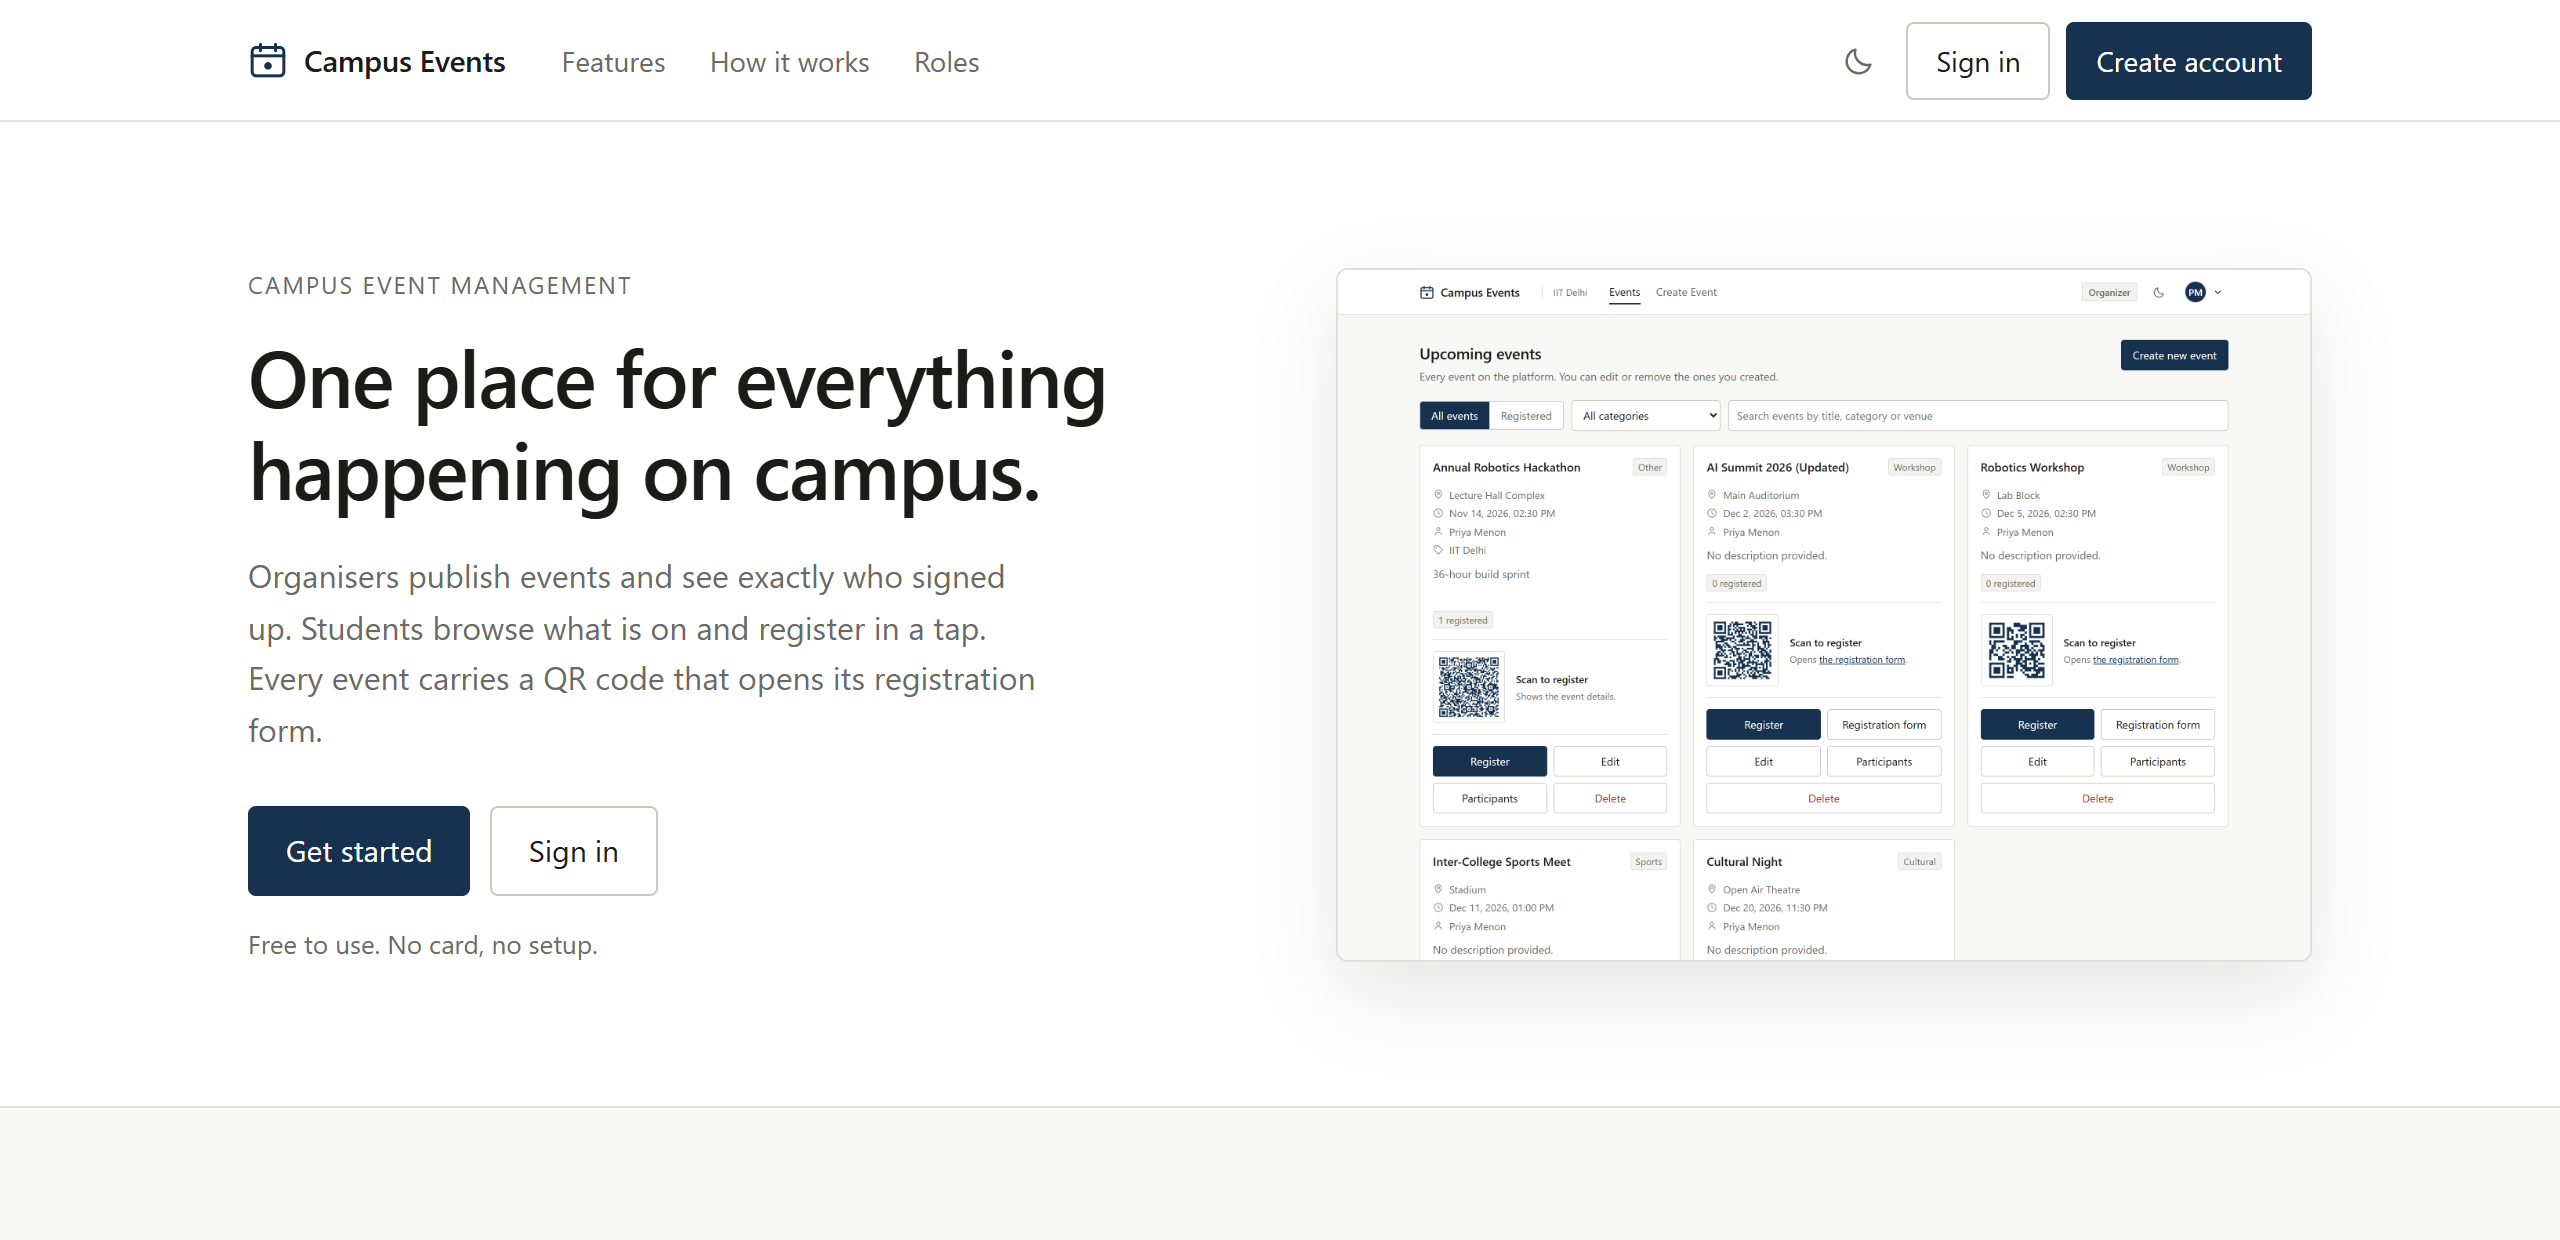
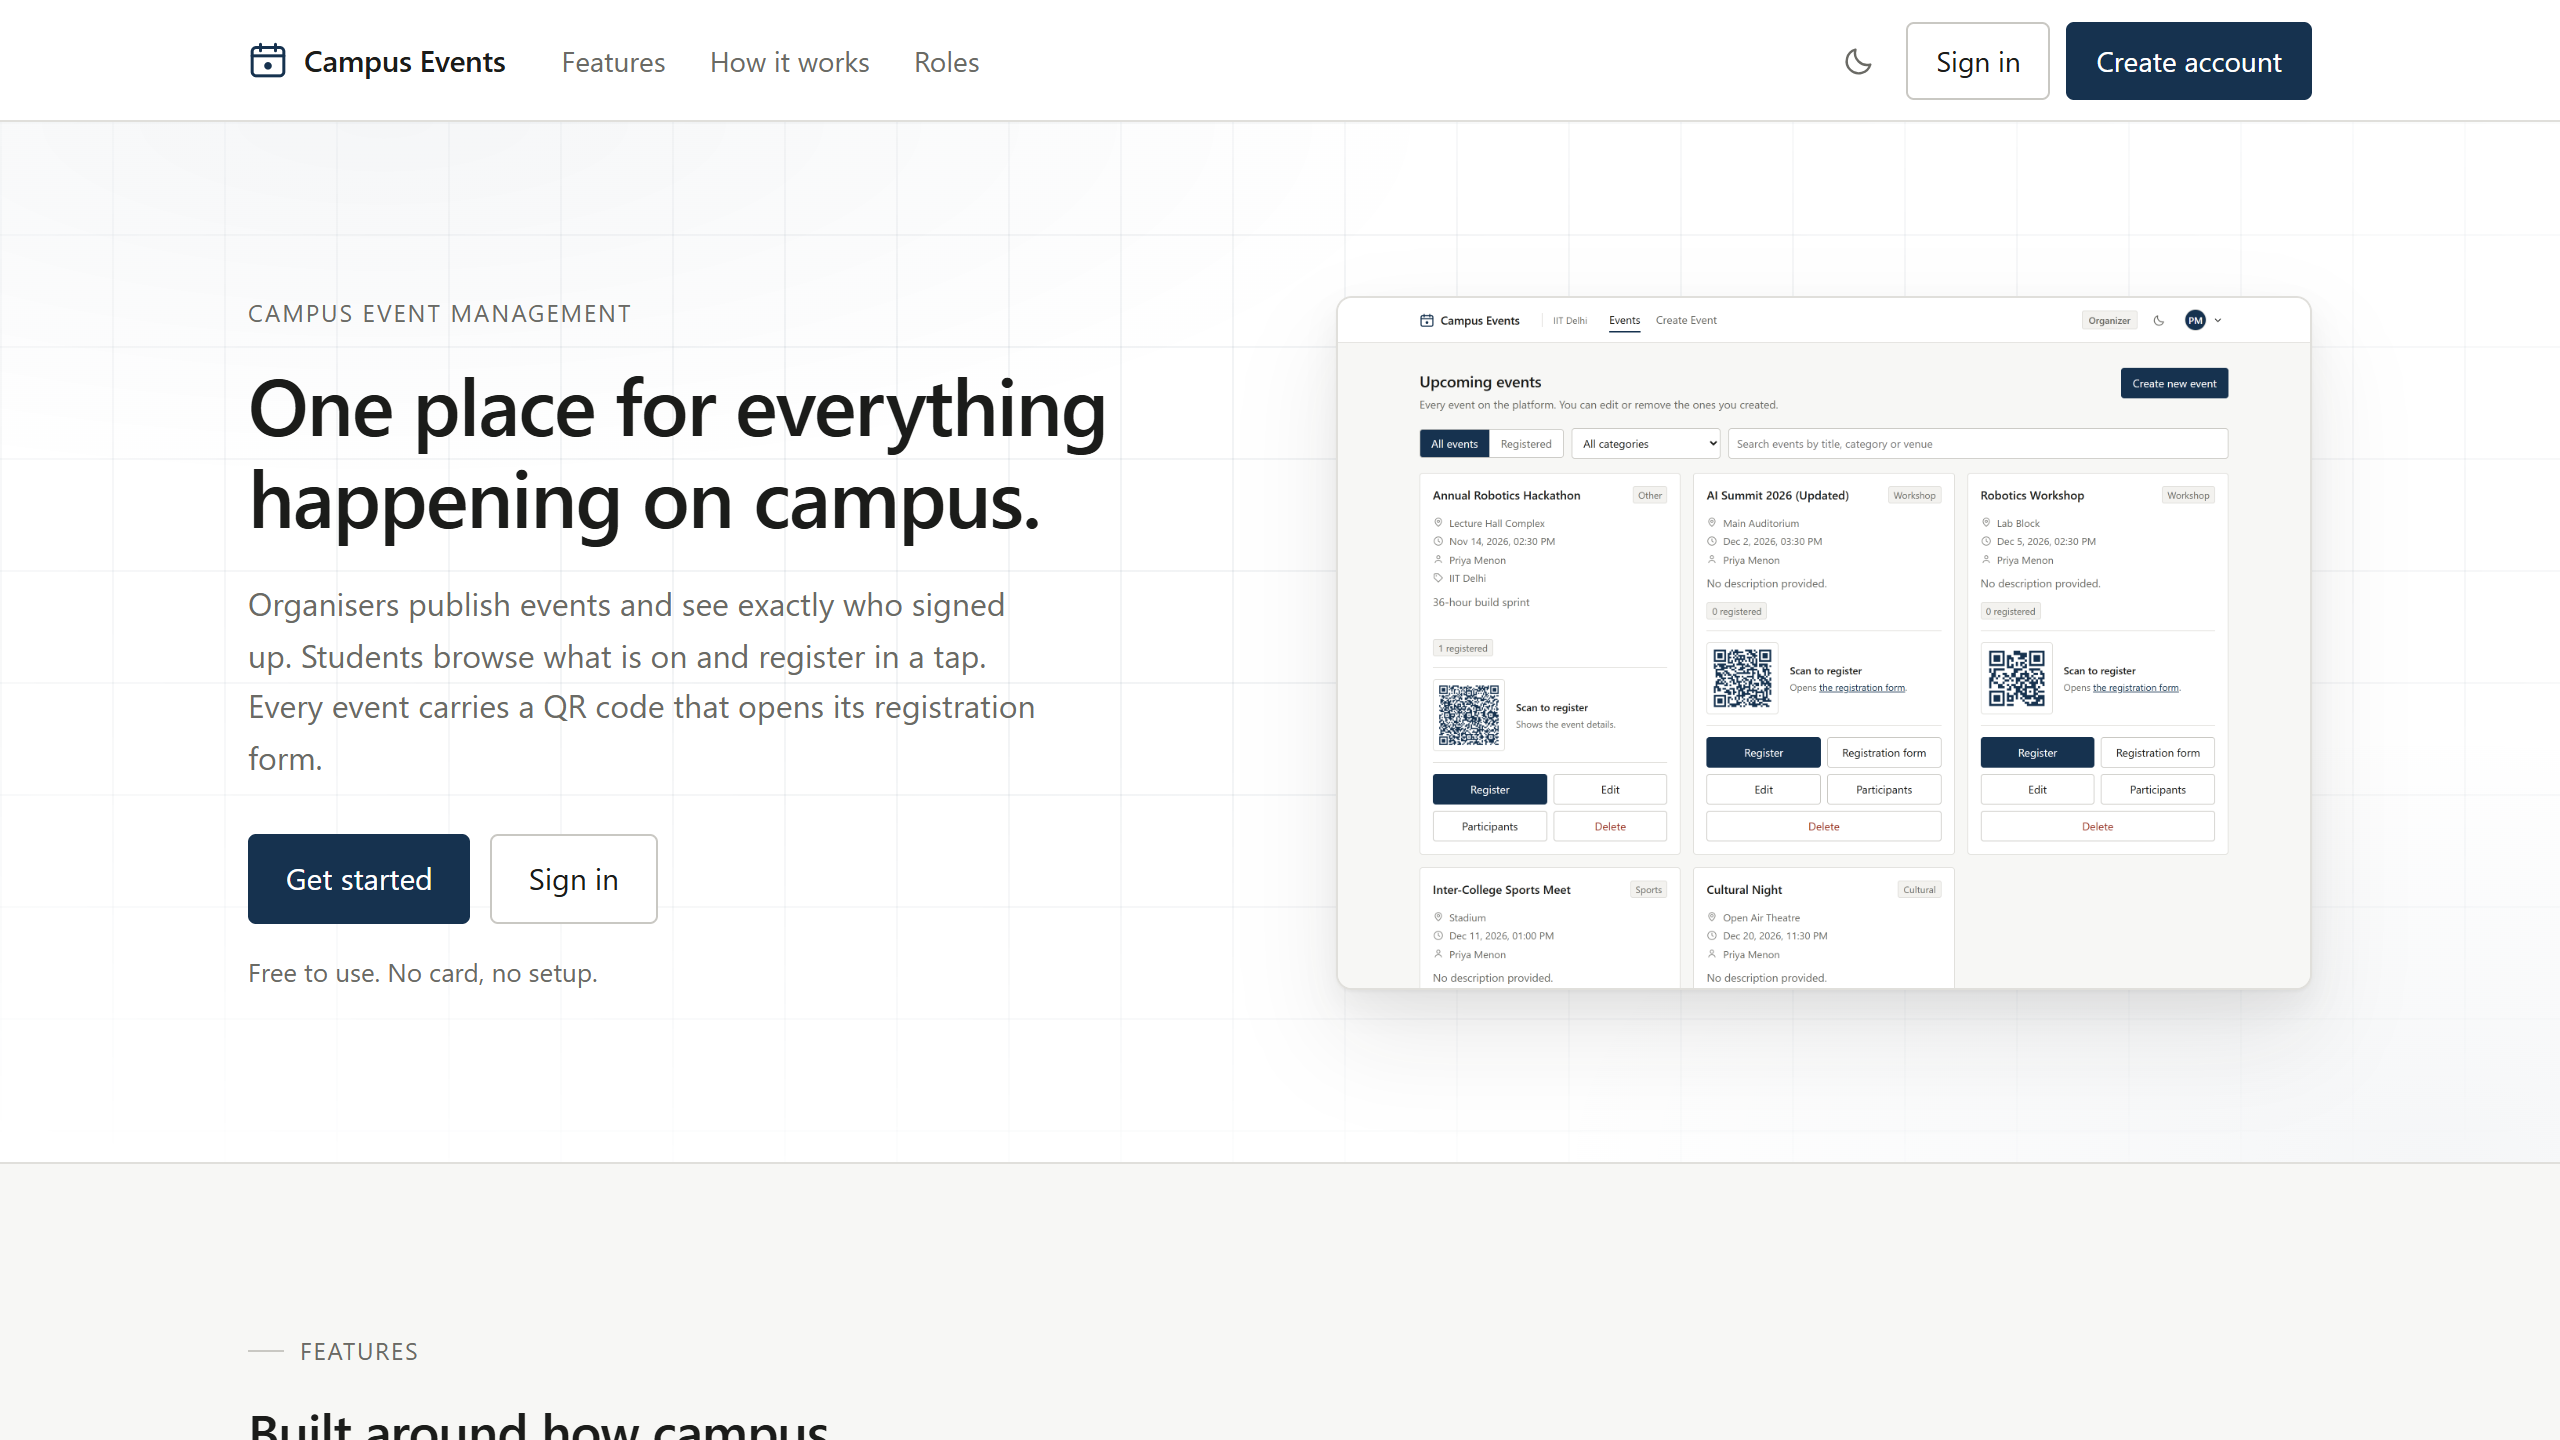
Give the landing page more visual depth

diff --git a/web/index.html b/web/index.html
@@ -54,10 +54,11 @@
         <p class="lp-note">Free to use. No card, no setup.</p>
       </div>
 
-      <div class="lp-shot">
-        <img src="assets/preview.png"
+      <div class="lp-shot reveal">
+        <img class="shot-light" src="assets/preview.png"
              alt="The event list, showing upcoming events with their QR codes"
              loading="lazy" />
+        <img class="shot-dark" src="assets/preview-dark.png" alt="" loading="lazy" />
       </div>
     </div>
   </section>
@@ -65,10 +66,11 @@
   <!-- ---------------- features ---------------- -->
   <section id="features" class="lp-section">
     <div class="lp-wrap">
+      <p class="lp-kicker">Features</p>
       <h2 class="lp-h2">Built around how campus events actually run</h2>
 
       <div class="lp-grid-3">
-        <article class="lp-card">
+        <article class="lp-card reveal">
           <div class="lp-icon">
             <svg viewBox="0 0 24 24" fill="none" stroke="currentColor" stroke-width="1.6" stroke-linecap="round" stroke-linejoin="round">
               <rect x="3" y="5" width="18" height="16" rx="2" /><path d="M3 10h18M8 3v4M16 3v4" />
@@ -81,7 +83,7 @@
           </p>
         </article>
 
-        <article class="lp-card">
+        <article class="lp-card reveal">
           <div class="lp-icon">
             <svg viewBox="0 0 24 24" fill="none" stroke="currentColor" stroke-width="1.6" stroke-linecap="round" stroke-linejoin="round">
               <rect x="3" y="3" width="7" height="7" rx="1" /><rect x="14" y="3" width="7" height="7" rx="1" />
@@ -95,7 +97,7 @@
           </p>
         </article>
 
-        <article class="lp-card">
+        <article class="lp-card reveal">
           <div class="lp-icon">
             <svg viewBox="0 0 24 24" fill="none" stroke="currentColor" stroke-width="1.6" stroke-linecap="round" stroke-linejoin="round">
               <path d="M16 20v-2a3 3 0 0 0-3-3H6a3 3 0 0 0-3 3v2" /><circle cx="9.5" cy="8" r="3.2" />
@@ -109,7 +111,7 @@
           </p>
         </article>
 
-        <article class="lp-card">
+        <article class="lp-card reveal">
           <div class="lp-icon">
             <svg viewBox="0 0 24 24" fill="none" stroke="currentColor" stroke-width="1.6" stroke-linecap="round" stroke-linejoin="round">
               <circle cx="11" cy="11" r="7" /><path d="M20 20l-3.5-3.5" />
@@ -122,7 +124,7 @@
           </p>
         </article>
 
-        <article class="lp-card">
+        <article class="lp-card reveal">
           <div class="lp-icon">
             <svg viewBox="0 0 24 24" fill="none" stroke="currentColor" stroke-width="1.6" stroke-linecap="round" stroke-linejoin="round">
               <rect x="6" y="2" width="12" height="20" rx="2.5" /><path d="M11 18.5h2" />
@@ -135,7 +137,7 @@
           </p>
         </article>
 
-        <article class="lp-card">
+        <article class="lp-card reveal">
           <div class="lp-icon">
             <svg viewBox="0 0 24 24" fill="none" stroke="currentColor" stroke-width="1.6" stroke-linecap="round" stroke-linejoin="round">
               <path d="M12 3l7.5 3.3v5c0 4.5-3.1 8.3-7.5 9.7-4.4-1.4-7.5-5.2-7.5-9.7v-5z" />
@@ -155,10 +157,11 @@
   <!-- ---------------- how it works ---------------- -->
   <section id="how" class="lp-section lp-alt">
     <div class="lp-wrap">
+      <p class="lp-kicker">Getting started</p>
       <h2 class="lp-h2">How it works</h2>
 
       <ol class="lp-steps">
-        <li>
+        <li class="reveal">
           <span class="lp-step-n">1</span>
           <div>
             <h3>Create an account</h3>
@@ -168,7 +171,7 @@
             </p>
           </div>
         </li>
-        <li>
+        <li class="reveal">
           <span class="lp-step-n">2</span>
           <div>
             <h3>Publish or browse</h3>
@@ -178,7 +181,7 @@
             </p>
           </div>
         </li>
-        <li>
+        <li class="reveal">
           <span class="lp-step-n">3</span>
           <div>
             <h3>Register, or scan</h3>
@@ -195,13 +198,14 @@
   <!-- ---------------- roles ---------------- -->
   <section id="roles" class="lp-section">
     <div class="lp-wrap">
+      <p class="lp-kicker">Permissions</p>
       <h2 class="lp-h2">Two roles, clearly separated</h2>
       <p class="lp-sub">
         Every rule below is checked on the server. Calling the API directly does not
         get around them.
       </p>
 
-      <div class="table-wrap">
+      <div class="table-wrap reveal">
         <table class="lp-table">
           <thead>
             <tr>
@@ -262,6 +266,35 @@
     const paint = () => { toggle.innerHTML = Theme.get() === 'dark' ? ICON_SUN : ICON_MOON; };
     paint();
     toggle.addEventListener('click', () => { Theme.toggle(); paint(); });
+  })();
+
+  // Reveal content as it scrolls into view, staggered a little within a group.
+  (function () {
+    const items = document.querySelectorAll('.reveal');
+    const reduced = window.matchMedia('(prefers-reduced-motion: reduce)').matches;
+
+    // Without IntersectionObserver, or when motion is unwanted, show everything.
+    if (reduced || !('IntersectionObserver' in window)) {
+      items.forEach((el) => el.classList.add('shown'));
+      return;
+    }
+
+    const observer = new IntersectionObserver((entries) => {
+      entries.forEach((entry, i) => {
+        if (!entry.isIntersecting) return;
+        setTimeout(() => entry.target.classList.add('shown'), Math.min(i, 4) * 60);
+        observer.unobserve(entry.target);
+      });
+    }, { rootMargin: '0px 0px -40px 0px', threshold: 0.08 });
+
+    items.forEach((el) => observer.observe(el));
+
+    // Anything already on screen at load should not wait for a scroll.
+    requestAnimationFrame(() => {
+      items.forEach((el) => {
+        if (el.getBoundingClientRect().top < window.innerHeight) el.classList.add('shown');
+      });
+    });
   })();
 </script>
 

diff --git a/web/assets/landing.css b/web/assets/landing.css
@@ -51,8 +51,35 @@
 
 .lp-hero {
   border-bottom: 1px solid var(--border);
-  padding-block: 72px;
+  padding-block: 86px;
   background: var(--surface);
+  position: relative;
+  overflow: hidden;
+  isolation: isolate;
+}
+
+/* A fine grid, barely there - gives the panel depth without decoration. */
+.lp-hero::before {
+  content: '';
+  position: absolute;
+  inset: 0;
+  z-index: -2;
+  background-image:
+    linear-gradient(to right, var(--grid-line) 1px, transparent 1px),
+    linear-gradient(to bottom, var(--grid-line) 1px, transparent 1px);
+  background-size: 56px 56px;
+  mask-image: radial-gradient(ellipse 90% 70% at 50% 40%, #000 30%, transparent 100%);
+}
+
+/* A soft wash in the brand colour, lifting the centre of the panel. */
+.lp-hero::after {
+  content: '';
+  position: absolute;
+  inset: 0;
+  z-index: -1;
+  background:
+    radial-gradient(ellipse 60% 50% at 15% 0%, var(--wash) 0%, transparent 70%),
+    radial-gradient(ellipse 50% 60% at 95% 100%, var(--wash) 0%, transparent 70%);
 }
 
 .lp-hero-grid {
@@ -95,14 +122,24 @@
 .lp-note { font-size: 13px; color: var(--muted); margin: 14px 0 0; }
 
 .lp-shot {
+  position: relative;
   border: 1px solid var(--border);
-  border-radius: 6px;
+  border-radius: 8px;
   overflow: hidden;
   background: var(--bg);
-  box-shadow: 0 16px 40px rgba(20, 20, 18, 0.10);
+  /* Stacked shadows read as depth rather than as a drop shadow. */
+  box-shadow:
+    0 1px 1px rgba(20, 20, 18, 0.04),
+    0 8px 16px rgba(20, 20, 18, 0.06),
+    0 24px 48px rgba(20, 20, 18, 0.09);
 }
 
-[data-theme="dark"] .lp-shot { box-shadow: 0 16px 40px rgba(0, 0, 0, 0.45); }
+[data-theme="dark"] .lp-shot {
+  box-shadow:
+    0 1px 1px rgba(0, 0, 0, 0.30),
+    0 8px 16px rgba(0, 0, 0, 0.34),
+    0 24px 48px rgba(0, 0, 0, 0.44);
+}
 
 .lp-shot img { display: block; width: 100%; height: auto; }
 
@@ -138,8 +175,19 @@
 
 .lp-card {
   border: 1px solid var(--border);
-  border-radius: var(--radius);
+  border-radius: 7px;
   padding: 22px;
+  transition: border-color 140ms ease, box-shadow 140ms ease, transform 140ms ease;
+}
+
+.lp-card:hover {
+  border-color: var(--border-strong);
+  box-shadow: 0 2px 4px rgba(20, 20, 18, 0.04), 0 10px 22px rgba(20, 20, 18, 0.06);
+  transform: translateY(-2px);
+}
+
+[data-theme="dark"] .lp-card:hover {
+  box-shadow: 0 2px 4px rgba(0, 0, 0, 0.30), 0 10px 22px rgba(0, 0, 0, 0.38);
 }
 
 /* Cards sit on whichever ground the section is not using. */
@@ -147,16 +195,16 @@
 .lp-alt .lp-card { background: var(--bg); }
 
 .lp-icon {
-  width: 34px;
-  height: 34px;
-  border: 1px solid var(--border);
-  border-radius: var(--radius);
+  width: 36px;
+  height: 36px;
+  border: 1px solid var(--icon-border);
+  border-radius: 7px;
   display: flex;
   align-items: center;
   justify-content: center;
   color: var(--ink);
-  margin-bottom: 14px;
-  background: var(--subtle);
+  margin-bottom: 15px;
+  background: var(--icon-bg);
 }
 
 .lp-icon svg { width: 18px; height: 18px; }
@@ -235,3 +283,53 @@
   .lp-bar-inner { gap: 12px; }
   .lp-bar-actions .btn-secondary { display: none; }
 }
+
+/* ---------- entrance ---------- */
+
+/* Content settles in as it comes into view. Deliberately short and small:
+   enough to feel considered, not enough to make anyone wait. */
+.reveal {
+  opacity: 0;
+  transform: translateY(12px);
+  transition: opacity 420ms cubic-bezier(0.22, 0.61, 0.36, 1),
+              transform 420ms cubic-bezier(0.22, 0.61, 0.36, 1);
+  will-change: opacity, transform;
+}
+
+.reveal.shown { opacity: 1; transform: none; }
+
+/* Anyone who has asked for less motion gets the finished state immediately. */
+@media (prefers-reduced-motion: reduce) {
+  .reveal { opacity: 1; transform: none; transition: none; }
+  .lp-card { transition: none; }
+  .lp-card:hover { transform: none; }
+}
+
+/* ---------- section eyebrow ---------- */
+
+.lp-kicker {
+  display: inline-flex;
+  align-items: center;
+  gap: 8px;
+  font-size: 12px;
+  letter-spacing: 0.07em;
+  text-transform: uppercase;
+  color: var(--muted);
+  margin-bottom: 12px;
+}
+
+.lp-kicker::before {
+  content: '';
+  width: 18px;
+  height: 1px;
+  background: var(--border-strong);
+}
+
+/* The hero screenshot follows the page theme, so a light panel never sits
+   on a dark page. */
+/* `.lp-shot img` is more specific than a bare class, so these have to match
+   that specificity to win. */
+.lp-shot .shot-dark { display: none; }
+
+[data-theme="dark"] .lp-shot .shot-light { display: none; }
+[data-theme="dark"] .lp-shot .shot-dark { display: block; }

diff --git a/web/assets/styles.css b/web/assets/styles.css
@@ -21,6 +21,10 @@
   --ok-border: #c2d8cb;
   --focus-ring: rgba(22, 50, 79, 0.10);
   --shadow: 0 6px 20px rgba(20, 20, 18, 0.12);
+  --grid-line: rgba(22, 50, 79, 0.055);
+  --wash: rgba(22, 50, 79, 0.045);
+  --icon-bg: rgba(22, 50, 79, 0.055);
+  --icon-border: rgba(22, 50, 79, 0.14);
   --radius: 4px;
 }
 
@@ -45,6 +49,10 @@
   --ok-border: #354a3c;
   --focus-ring: rgba(143, 180, 217, 0.20);
   --shadow: 0 6px 20px rgba(0, 0, 0, 0.45);
+  --grid-line: rgba(143, 180, 217, 0.055);
+  --wash: rgba(143, 180, 217, 0.05);
+  --icon-bg: rgba(143, 180, 217, 0.09);
+  --icon-border: rgba(143, 180, 217, 0.20);
 }
 
 * { box-sizing: border-box; }
